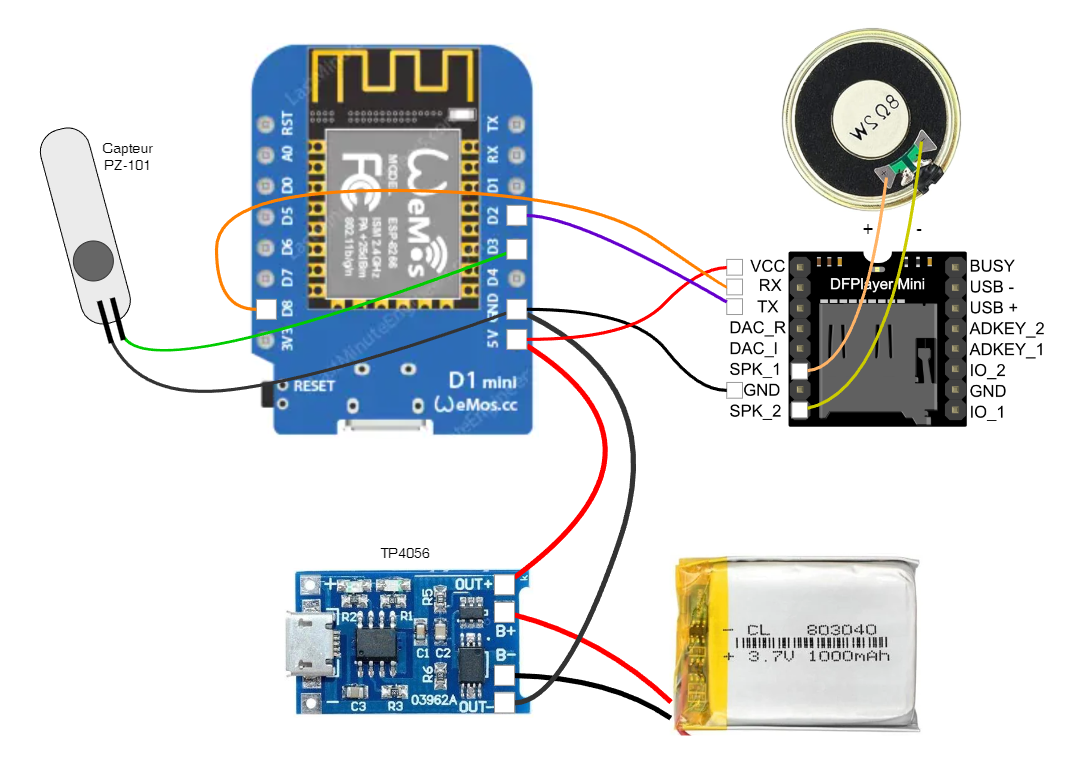
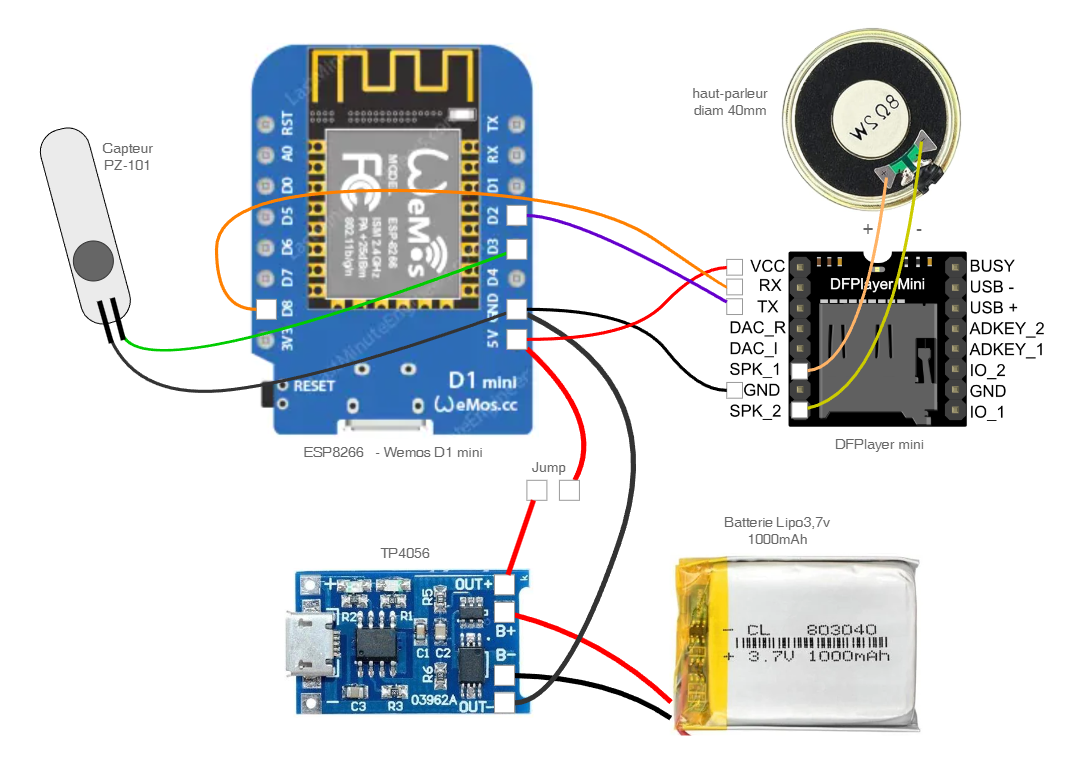
Add electronic diagram

diff --git a/README.md b/README.md
@@ -20,11 +20,11 @@ Elle est réalisée en impression 3D, embarque un petit peu d'électronique, et 
 Cette "boîte à meuh", aussi nommée "boîte à vache", est un projet DIY (Do it yourself - faites-le par vous-même). Elle respecte les dimensions de la boite originale des années 80 ( https://fr.wikipedia.org/wiki/Bo%C3%AEte_%C3%A0_meuh )
 <br>
 
-Au programme dans ce tuto en images et vidéos :
+Au programme dans ce tuto, et en images & vidéos :
 
 * les pièces 3D et l'impression
 * la liste des composants et le schéma électronique
-* l'implentation des composants sur une petite carte d'essai
+* l’implantation des composants sur une petite carte d'essai
 * l'assemblage final
 * un exemple de programme
 
@@ -58,7 +58,7 @@ Le projet est composé de :
 ---
 ### ***Électronique - composants et schéma***
 
-Le porjet est composé des pièces suivantes :
+Le projet est composé des pièces suivantes :
 
 * un module ESP8266 au format Wemos D1 Mini
 * un module lecteur MP3 DFPlayer
@@ -69,7 +69,7 @@ Le porjet est composé des pièces suivantes :
 * un module de gestion charge type TP4056
 * un petit "jump" coupe circuit (en guise d'interrupteur marche/arrêt)
 
-<img src="electro/Boite_a_M_schema.png" width="90%">
+<img src="electro/Boite_a_M_schema.png" width="1    00%">
 
 *Raccordement de l'ESP8266 :* 
 * D3 --> capteur d'inclinaison PZ-101
